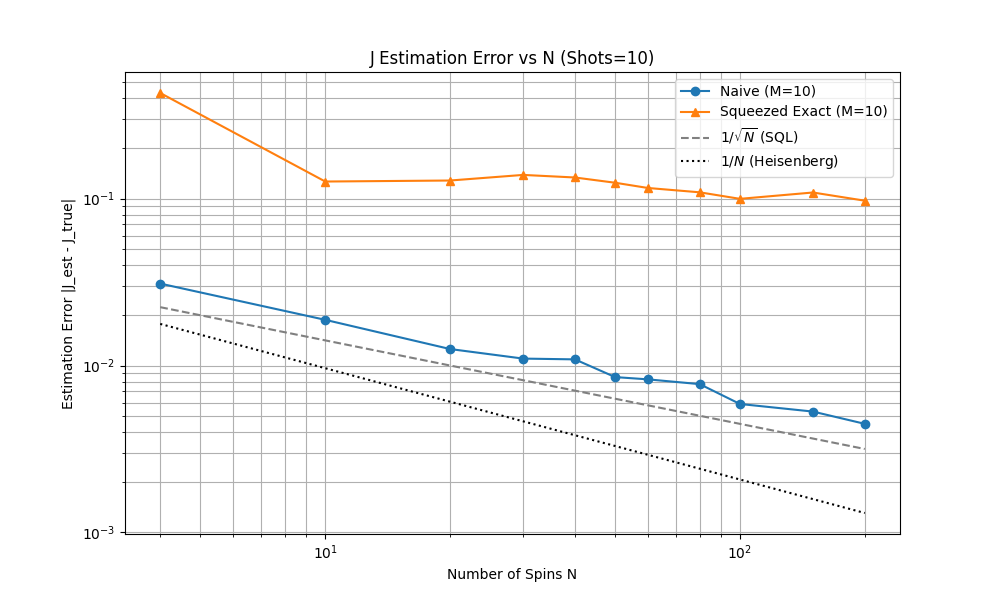
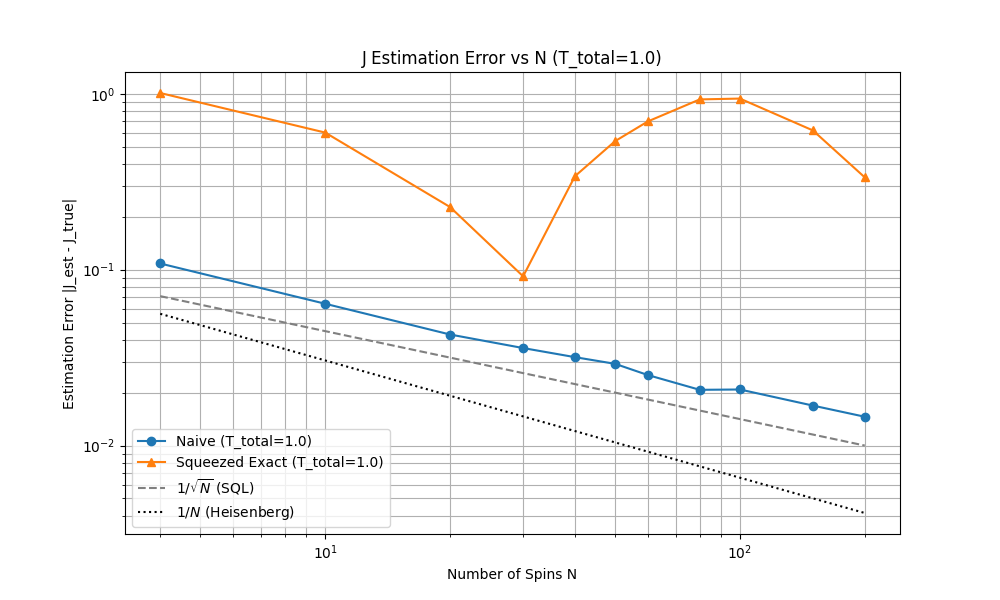
fitting to sy^2

diff --git a/estimator.py b/estimator.py
@@ -9,9 +9,9 @@ import spin_squeezing_dickie as ssd
 # N = 20
 J_TRUE = 2.0
 T_MAX = 1
-STEPS = 50
+STEPS = 20
 # TIMES = np.linspace(0, T_MAX, STEPS)
-SHOTS_MAX = 10
+SHOTS_MAX = 1
 
 def get_naive_probs(N, times, J):
     """
@@ -60,6 +60,7 @@ def get_squeezed_probs(N, times, J):
 
         # --- optimal squeezing angle ---
         theta = 0.5 * np.arctan2(2 * cov, dIy2 - dIz2)
+        theta = np.pi/2 #measure sy^2
 
         # --- rotate so I_theta -> Iz ---
         R = expm(1j * theta * ops['I_x'])
@@ -71,8 +72,8 @@ def get_squeezed_probs(N, times, J):
         probs_m = psi_sq[:dim_B] + psi_sq[dim_B:]
 
         probs_list.append(probs_m)
-        numerical.append(0.5 * (mean_Iy2 + mean_Iz2 - np.sqrt((mean_Iy2 - mean_Iz2)**2 + 4*(cov)**2)))
-        numerical_y2.append(mean_Iy2)
+        numerical.append(0.5 * (dIy2 + dIz2 - np.sqrt((dIy2 - dIz2)**2 + 4*(cov)**2)))
+        numerical_y2.append(dIy2)
         numerical_cov.append(cov)
 
     return probs_list, m_values, numerical, numerical_y2, numerical_cov
@@ -83,35 +84,61 @@ def fit_naive(times, y_data):
     def model(t, J_est):
         return np.cos(J_est * t)
     
-    try:
-        popt, _ = curve_fit(model, times, y_data, p0=np.random.uniform(1, 3, 1), bounds=(0, 10))
-        return popt[0]
-    except:
-        return np.nan
+    best_popt = None
+    best_cost = np.inf
+    bounds = (0, 10)
+    guesses = np.linspace(max(0.1, bounds[0]), bounds[1], 20)
+    
+    for g in guesses:
+        try:
+            popt, _ = curve_fit(model, times, y_data, p0=[g], bounds=bounds)
+            cost = np.sum((model(times, popt[0]) - y_data)**2)
+            if cost < best_cost:
+                best_cost = cost
+                best_popt = popt
+        except:
+            pass
+            
+    if best_popt is not None:
+        return best_popt[0]
+    return np.nan
 
 def fit_squeezed_exact(times, y_data, N):
 
     def model(t, J):
         Sz2 = N / 4
 
-        Sy2 = (N*(N+1))/8 - (N*(N-1))/8 * np.cos(2*(J)*t)**(N-2)
+        Sy2 = (N*(N+1))/8 - (N*(N-1))/8 * np.cos(2*(J)**2*t)**(N-2)
 
-        cov = (N*(N-1))/4 * np.sin(2*(J)*t) * np.cos(2*(J)*t)**(N-3)
+        cov = (N*(N-1))/4 * np.sin((J)**2*t) * np.cos((J)**2*t)**(N-3)
 
+        return Sy2 #debug measure only sy^2
         return 0.5 * (
-            Sy2 + Sz2 - np.sqrt((Sy2 - Sz2)**2 + 2*cov**2)
+            Sy2 + Sz2 - np.sqrt((Sy2 - Sz2)**2 + 4*cov**2)
         )
 
-    try:
-        popt, _ = curve_fit(model, times, y_data, p0=np.random.uniform(1, 3, 1), bounds=(0,5))
-        return popt[0]
-    except:
-        return np.nan
+    best_popt = None
+    best_cost = np.inf
+    bounds = (0, 5)
+    guesses = np.linspace(max(0.1, bounds[0]), bounds[1], 20)
+    
+    for g in guesses:
+        try:
+            popt, _ = curve_fit(model, times, y_data, p0=[g], bounds=bounds)
+            cost = np.sum((model(times, popt[0]) - y_data)**2)
+            if cost < best_cost:
+                best_cost = cost
+                best_popt = popt
+        except:
+            pass
+            
+    if best_popt is not None:
+        return best_popt[0]
+    return np.nan
 
-def fit_squeezed(times, y_data, N):
+def fit_squeezed(times, y_data, N_val):
 
     def model(t, J):
-
         Sy2 = (N_val*(N_val+1))/8 - (N_val*(N_val-1))/8 * np.cos((2*J**2)*t)**(N_val-2)
         Sz2 = N_val / 4
         cov = (N_val*(N_val-1))/4 * np.sin((J**2)*t) * np.cos((J**2)*t)**(N_val-3)
@@ -119,11 +146,24 @@ def fit_squeezed(times, y_data, N):
         val_exact = 0.5 * (Sy2 + Sz2 - np.sqrt((Sy2 - Sz2)**2 + 4*(cov)**2))
         return val_exact
 
-    try:
-        popt, _ = curve_fit(model, times, y_data, p0=np.random.uniform(1, 3, 1), bounds=(0,5))
-        return popt[0]
-    except:
-        return np.nan
+    best_popt = None
+    best_cost = np.inf
+    bounds = (0, 5)
+    guesses = np.linspace(max(0.1, bounds[0]), bounds[1], 20)
+    
+    for g in guesses:
+        try:
+            popt, _ = curve_fit(model, times, y_data, p0=[g], bounds=bounds)
+            cost = np.sum((model(times, popt[0]) - y_data)**2)
+            if cost < best_cost:
+                best_cost = cost
+                best_popt = popt
+        except:
+            pass
+            
+    if best_popt is not None:
+        return best_popt[0]
+    return np.nan
 
 
 
@@ -131,46 +171,51 @@ def run_comparison():
     print(f"Running comparison for Fixed Shots={SHOTS_MAX}, True J={J_TRUE}")
 
     
-    # N sweep configuration
-    N_SWEEP = [4, 10, 20, 30, 40, 50, 60, 80, 100, 150, 200]
-
+    # T_total sweep configuration
+    T_TOTAL_SWEEP = np.array([100 , 150, 200, 250, 300])
+    N_val = 10  # Fixed N for the sweep
 
     avg_err_naive = []
     avg_err_squeezed = []
     avg_err_squeezed_exact = []
     
-    NUM_AVERAGES = 100
-    FIXED_SHOTS = SHOTS_MAX
+    NUM_AVERAGES = 50
+    
+    T_ramsey = 2.0
+    T_squeezed = 0.05 * T_ramsey
 
     debug_squeezing_data = {} 
     
-    print("Starting N sweep...")
+    print(f"Starting T_total sweep... (N={N_val}, T_ramsey={T_ramsey}, T_squeezed={T_squeezed})")
 
-    for N_val in N_SWEEP:
-        print(f" Simulating N={N_val}...")
+    for T_total in T_TOTAL_SWEEP:
+        shots_ramsey = max(1, int(T_total / T_ramsey)) * N_val
+        shots_squeezed = max(1, int(T_total / T_squeezed))
+        print(f" Simulating T_total={T_total}... (shots_ramsey={shots_ramsey}, shots_squeezed={shots_squeezed})")
         
         # Checking logic: `p0 = np.cos(J * t / 2.0)**2`. Yes independent.
+        T_MAX = T_ramsey 
         times_naive = np.linspace(0, T_MAX, STEPS)
-        opt_time = 2 / (np.sqrt(2 * (N_val - 2)) * J_TRUE**2)
-        times_squeezed = np.linspace(0, opt_time, STEPS)
+        # opt_time = 2 / (np.sqrt(2 * (N_val - 2)) * J_TRUE**2)
+        times_squeezed = np.linspace(0, T_squeezed, STEPS)
+        times_squeezed = np.array([0.06]) #debug
         probs_naive = get_naive_probs(N_val, times_naive, J_TRUE) 
         
         # Squeezed: Depends heavily on N
         probs_squeezed, m_vals, numerical, numerical_y2, numerical_cov = get_squeezed_probs(N_val, times_squeezed, J_TRUE) 
-        
         temp_err_naive = []
         temp_err_squeezed = []
         temp_err_squeezed_exact = []
 
-        is_last_N = (N_val == N_SWEEP[-1])
+        is_last_Total = (T_total == T_TOTAL_SWEEP[-1])
 
         for run_idx in range(NUM_AVERAGES):
-            is_debug_run = is_last_N and (run_idx == 0)
+            is_debug_run = is_last_Total and (run_idx == 0)
 
             # --- Method 1: Naive ---
             mx_means = []
             for p0 in probs_naive:
-                n_total_bits = N_val * FIXED_SHOTS
+                n_total_bits = shots_ramsey//STEPS
                 count_ones = np.random.binomial(n_total_bits, p0)
                 mx_sample = (2 * count_ones - n_total_bits) / n_total_bits
                 mx_means.append(mx_sample)
@@ -195,7 +240,7 @@ def run_comparison():
             term1 = (N_val*(N_val+1))/8.0
             term2 = (N_val*N_val - N_val)/4.0
             for idx, probs_m in enumerate(probs_squeezed):
-                samples_m = np.random.choice(m_vals, size=FIXED_SHOTS, p=probs_m / np.sum(probs_m))
+                samples_m = np.random.choice(m_vals, size=shots_squeezed, p=probs_m / np.sum(probs_m)) #after debug devide by STEPS
                 mean_m  = np.mean(samples_m)
                 mean_m2 = np.mean(samples_m**2)
                 var_m   = mean_m2 - mean_m**2
@@ -203,12 +248,14 @@ def run_comparison():
 
                 if is_debug_run:
                     t = times_squeezed[idx]
+                    N_debug = N_val 
                     # exact squeezed variance
-                    Sy2 = (N_val*(N_val+1))/8 - (N_val*(N_val-1))/8 * np.cos((2*J_TRUE**2)*t)**(N_val-2)
-                    Sz2 = N_val / 4
-                    cov = (N_val*(N_val-1))/4 * np.sin((J_TRUE**2)*t) * np.cos((J_TRUE**2)*t)**(N_val-3)
+                    Sy2 = (N_debug*(N_debug+1))/8 - (N_debug*(N_debug-1))/8 * np.cos((2*J_TRUE**2)*t)**(N_debug-2)
+                    Sz2 = N_debug / 4
+                    cov = (N_debug*(N_debug-1))/4 * np.sin((J_TRUE**2)*t) * np.cos((J_TRUE**2)*t)**(N_debug-2)
 
                     val_exact = 0.5 * (Sy2 + Sz2 - np.sqrt((Sy2 - Sz2)**2 + 4*(cov)**2))
+                    val_exact = Sy2 #debug measure only sy2
 
                     pref = (N_val/4) * ((N_val-1)/2)**(1/3)
                     val_approx = pref * np.exp(-2*(N_val-2)*(J_TRUE**2)*t**2)
@@ -222,10 +269,11 @@ def run_comparison():
                     debug_squeezing_data['numerical_cov'].append(numerical_cov[idx])
                     debug_squeezing_data['analytical_cov'].append(cov)
 
-            j_squeezed = fit_squeezed(times_squeezed, var_m, N_val)
+
+            j_squeezed = fit_squeezed(times_squeezed, iy2_means, N_val)
 
             temp_err_squeezed.append(abs(j_squeezed - J_TRUE))
-            
+
             j_squeezed_ex = fit_squeezed_exact(times_squeezed, iy2_means, N_val)
             temp_err_squeezed_exact.append(abs(j_squeezed_ex - J_TRUE))
         
@@ -234,50 +282,45 @@ def run_comparison():
         avg_err_squeezed.append(np.mean(temp_err_squeezed))
         avg_err_squeezed_exact.append(np.mean(temp_err_squeezed_exact))
         
-        print(f"N={N_val}: Naive={avg_err_naive[-1]:.4f}, SqApprox={avg_err_squeezed[-1]:.4f}, SqExact={avg_err_squeezed_exact[-1]:.4f}")
+        print(f"T_total={T_total}: Naive={avg_err_naive[-1]:.4f}, SqApprox={avg_err_squeezed[-1]:.4f}, SqExact={avg_err_squeezed_exact[-1]:.4f}")
 
     # --- Plotting ---
     plt.figure(figsize=(10, 6))
-    plt.plot(N_SWEEP, avg_err_naive, 'o-', label=f'Naive (M={FIXED_SHOTS})')
-    # plt.plot(N_SWEEP, avg_err_squeezed, 's-', label=f'Squeezed Approx (M={FIXED_SHOTS})')
-    plt.plot(N_SWEEP, avg_err_squeezed_exact, '^-', label=f'Squeezed Exact (M={FIXED_SHOTS})')
+    plt.plot(T_TOTAL_SWEEP, avg_err_naive, 'o-', label=f'Naive (N={N_val})')
+    # plt.plot(T_TOTAL_SWEEP, avg_err_squeezed, 's-', label=f'Squeezed Approx (N={N_val})')
+    plt.plot(T_TOTAL_SWEEP, avg_err_squeezed_exact, '^-', label=f'Squeezed Exact (N={N_val})')
     
     # Scaling lines
-    # SQL: 1/sqrt(N)
-    # HL: 1/N
-    # We normalized them to match the last point roughly or just plotting slope?
-    # Let's plot raw functions and user can see slope.
-    
-    n_arr = np.array(N_SWEEP)
-    plt.plot(n_arr, 1 /( STEPS*SHOTS_MAX * n_arr)**(1/2), '--', color='gray', label=r'$1/\sqrt{N}$ (SQL)')
-    plt.plot(n_arr, 1 /((np.sqrt(STEPS*SHOTS_MAX)) * n_arr**(2/3)), ':', color='black', label=r'$1/N$ (Heisenberg)')
+    t_arr = np.array(T_TOTAL_SWEEP)
+    plt.plot(t_arr, 1 /( (t_arr//T_ramsey) * N_val)**(1/2), '--', color='gray', label=r'$1/\sqrt{T_{total}}$ (SQL)')
+    plt.plot(t_arr, 1 /((np.sqrt((t_arr/T_squeezed))) * N_val**(2/3)), ':', color='black', label='Heisenberg like')
 
     plt.xscale('log')
     plt.yscale('log')
-    plt.xlabel('Number of Spins N')
+    plt.xlabel('Total Time Budget (T_total)')
     plt.ylabel('Estimation Error |J_est - J_true|')
-    plt.title(f'J Estimation Error vs N (Shots={FIXED_SHOTS})')
+    plt.title(f'J Estimation Error vs T_total (N={N_val})')
     plt.legend()
     plt.grid(True, which="both", ls="-")
-    plt.savefig('error_comparison_N_sweep.png')
-    print("Saved 'error_comparison_N_sweep.png'")
+    plt.savefig('error_comparison_T_sweep.png')
+    print("Saved 'error_comparison_T_sweep.png'")
     
     # --- Plotting Debug ---
     if 'times' in debug_squeezing_data:
         plt.figure(figsize=(10, 6))
         # plt.plot(debug_squeezing_data['times'], debug_squeezing_data['analytical_approx'], label='Analytical Approx', color='black', linestyle='--')
         plt.plot(debug_squeezing_data['times'], debug_squeezing_data['analytical_exact'], label='Analytical Exact', color='green', linestyle='-')
-        plt.plot(debug_squeezing_data['times'], debug_squeezing_data['sampled'], 'o', label=f'Sampled (N={N_SWEEP[-1]})', alpha=0.3)
-        plt.plot(debug_squeezing_data['times'], debug_squeezing_data['numerical'], 'x', label=f'Numerical (N={N_SWEEP[-1]})', alpha=0.3)
-        # plt.plot(debug_squeezing_data['times'], debug_squeezing_data['numerical_y2'], 's', label=f'Numerical Y^2 (N={N_SWEEP[-1]})', alpha=0.3)
-        # plt.plot(debug_squeezing_data['times'], debug_squeezing_data['analytical_y2'], label=f'Analytical Y^2 (N={N_SWEEP[-1]})', alpha=0.3)
+        plt.plot(debug_squeezing_data['times'], debug_squeezing_data['sampled'], 'o', label=f'Sampled (T={T_TOTAL_SWEEP[-1]})', alpha=0.3)
+        plt.plot(debug_squeezing_data['times'], debug_squeezing_data['numerical'], 'x', label=f'Numerical (T={T_TOTAL_SWEEP[-1]})', alpha=0.3)
+        # plt.plot(debug_squeezing_data['times'], debug_squeezing_data['numerical_y2'], 's', label=f'Numerical Y^2 (T={T_TOTAL_SWEEP[-1]})', alpha=0.3)
+        # plt.plot(debug_squeezing_data['times'], debug_squeezing_data['analytical_y2'], label=f'Analytical Y^2 (T={T_TOTAL_SWEEP[-1]})', alpha=0.3)
 
-        # plt.plot(debug_squeezing_data['times'], debug_squeezing_data['numerical_cov'], 's', label=f'Numerical Cov (N={N_SWEEP[-1]})', alpha=0.3)
-        # plt.plot(debug_squeezing_data['times'], debug_squeezing_data['analytical_cov'], label=f'Analytical Cov (N={N_SWEEP[-1]})', alpha=0.3)
+        # plt.plot(debug_squeezing_data['times'], debug_squeezing_data['numerical_cov'], 's', label=f'Numerical Cov (T={T_TOTAL_SWEEP[-1]})', alpha=0.3)
+        # plt.plot(debug_squeezing_data['times'], debug_squeezing_data['analytical_cov'], label=f'Analytical Cov (T={T_TOTAL_SWEEP[-1]})', alpha=0.3)
         
         plt.xlabel('Time')
         plt.ylabel('<V-^2>')
-        plt.title(f'Debug: Squeezed Component (N={N_SWEEP[-1]})')
+        plt.title(f'Debug: Squeezed Component (T={T_TOTAL_SWEEP[-1]})')
         plt.legend()
         plt.grid(True)
         plt.savefig('debug_squeezing.png')

diff --git a/spin_squeezing_dickie.py b/spin_squeezing_dickie.py
@@ -49,13 +49,14 @@ def get_total_operators(N):
     I_x = np.kron(id_S, Jx_B)
     I_y = np.kron(id_S, Jy_B)
     I_z = np.kron(id_S, Jz_B)
+    I_i = np.kron(id_S, id_B)
     
     I_p = np.kron(id_S, Jp_B)
     
     return {
         'S_x': S_x, 'S_z': S_z,
         'I_x': I_x, 'I_y': I_y, 'I_z': I_z,
-        'I_p': I_p,
+        'I_p': I_p, 'I_i': I_i,
         'm_values': m_values
     }
 
@@ -79,11 +80,12 @@ def get_hamiltonian(ops, Omega, omega, g_int):
     S_x = ops['S_x']
     I_x = ops['I_x']
     I_z = ops['I_z']
+    I_i = ops['I_i']
     
     I_z2 = I_z @ I_z
     
     # H = (Omega/2) S_x + omega I_x + g_int * S_x * I_z^2
-    H = (Omega / 2.0) * S_x + omega * I_x + g_int * (S_x @ I_z2)
+    H = (Omega / 2.0) * S_x + omega * I_x + g_int * (I_i @ I_z2)
     return H
 
 def get_psit(H, psi0, t):